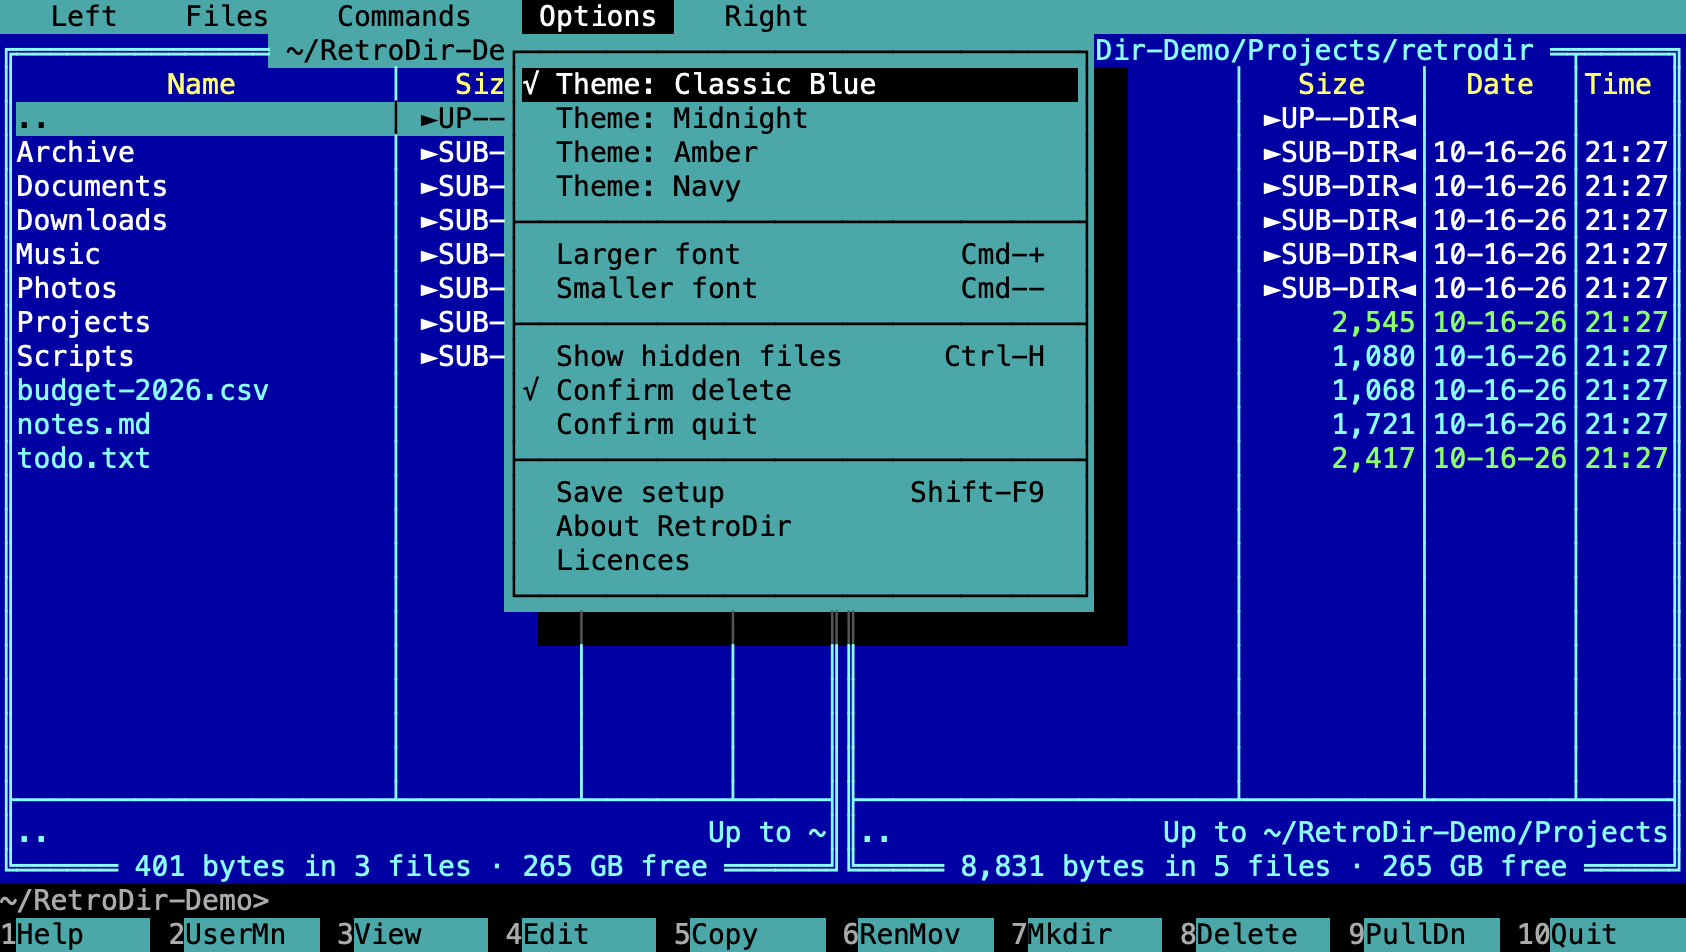
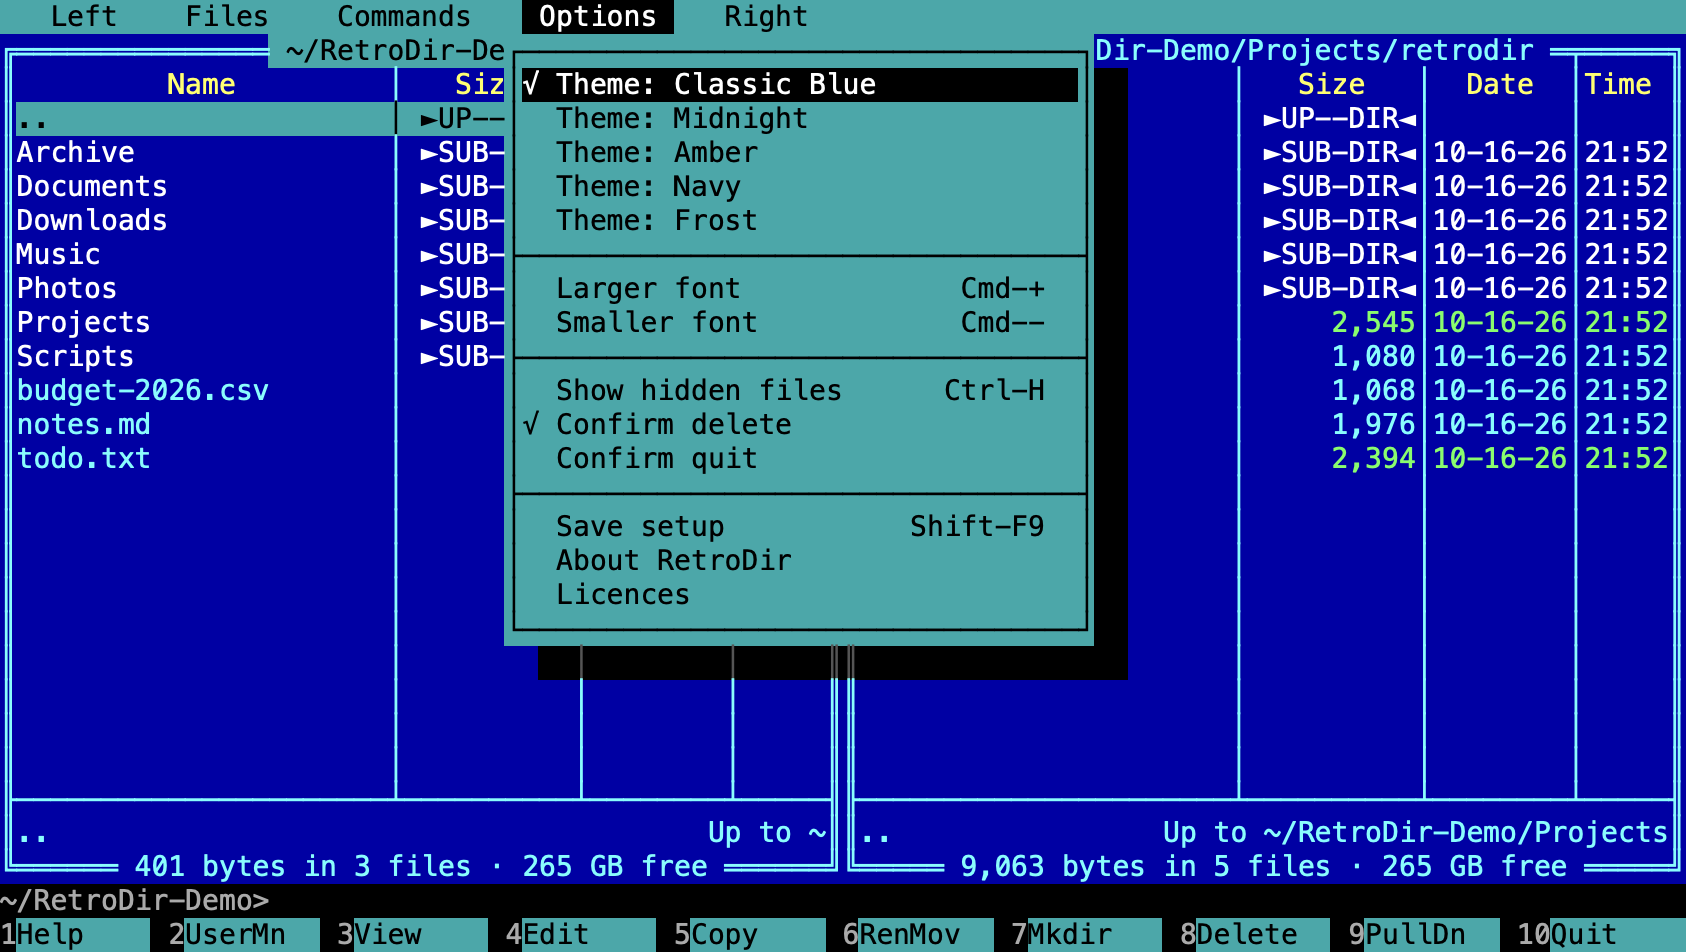
Website: Frost theme on the home page and in the manual; 1.1 release notes
Frost screenshots are composites: a snapshot with real transparency over a
generated abstract backdrop, since the desktop blur can't be captured from
inside the app.

diff --git a/docs/index.html b/docs/index.html
@@ -14,7 +14,7 @@
 <meta name="twitter:card" content="summary_large_image">
 <link rel="icon" type="image/png" href="img/favicon.png">
 <link rel="apple-touch-icon" href="img/icon.png">
-<link rel="stylesheet" href="style.css?v=ca78e375">
+<link rel="stylesheet" href="style.css?v=570233fb">
 </head>
 <body>
 
@@ -39,7 +39,7 @@
     <p class="tagline">A retro dual-panel file manager for macOS, with a built-in tabbed terminal.</p>
     <p class="sub">Free · Open source (MIT) · Keyboard-first · macOS 13 or later</p>
     <div class="buttons">
-      <a class="btn primary" href="https://github.com/ehsanhaque/retrodir/releases/latest/download/RetroDir.dmg">Download for macOS <span class="ver">v1.0.1</span></a>
+      <a class="btn primary" href="https://github.com/ehsanhaque/retrodir/releases/latest/download/RetroDir.dmg">Download for macOS <span class="ver">v1.1</span></a>
       <a class="btn" href="https://github.com/ehsanhaque/retrodir">View on GitHub</a>
     </div>
     <img class="shot" src="img/hero.png" width="1754" height="884"
@@ -108,8 +108,9 @@
 
 <section id="themes" data-nav="screenshots">
   <div class="wrap">
-    <h2>Four colour themes</h2>
-    <p class="lead">Classic Blue is the default. Switch any time from Options in the menu.</p>
+    <h2>Five colour themes</h2>
+    <p class="lead">Classic Blue is the default. Switch any time from Options in the menu. New in 1.1: <b>Frost</b>, a translucent theme that turns panels, menus and the terminal into tinted glass over your blurred desktop.</p>
+    <figure class="theme-feature"><img src="img/theme-4.png" width="1754" height="884" loading="lazy" alt="Frost theme: translucent panels over a colourful blurred background"><figcaption>Frost <span class="new">NEW</span> · translucent</figcaption></figure>
     <div class="themes">
       <figure><img src="img/hero.png" width="1754" height="884" loading="lazy" alt="Classic Blue theme"><figcaption>Classic Blue</figcaption></figure>
       <figure><img src="img/theme-1.png" width="1754" height="884" loading="lazy" alt="Midnight theme"><figcaption>Midnight</figcaption></figure>
@@ -147,7 +148,7 @@
     <div class="download">
       <div class="panel"><h3>Download</h3>
         <p>A signed and notarized universal app for Apple silicon and Intel Macs. Requires macOS 13 Ventura or later.</p>
-        <a class="btn primary" href="https://github.com/ehsanhaque/retrodir/releases/latest/download/RetroDir.dmg">Download RetroDir <span class="ver">v1.0.1</span></a>
+        <a class="btn primary" href="https://github.com/ehsanhaque/retrodir/releases/latest/download/RetroDir.dmg">Download RetroDir <span class="ver">v1.1</span></a>
         <p class="note">Open the DMG and drag RetroDir to Applications. See <a href="releases.html">what’s new</a>, or older versions on <a href="https://github.com/ehsanhaque/retrodir/releases">GitHub Releases</a>.</p>
       </div>
       <div class="panel"><h3>Build from source</h3>
@@ -219,7 +220,7 @@ open build/RetroDir.app</pre>
 
   // Click a screenshot to enlarge it
   const box = document.getElementById('lightbox'), big = box.querySelector('img');
-  document.querySelectorAll('.gallery img, .themes img, .hero .shot').forEach(img => {
+  document.querySelectorAll('.gallery img, .themes img, .theme-feature img, .hero .shot').forEach(img => {
     img.addEventListener('click', () => { big.src = img.src; big.alt = img.alt; box.showModal(); });
   });
   box.addEventListener('click', () => box.close());

diff --git a/docs/manual.html b/docs/manual.html
@@ -12,7 +12,7 @@
 <link rel="canonical" href="https://retrodir.app/manual.html">
 <link rel="icon" type="image/png" href="img/favicon.png">
 <link rel="apple-touch-icon" href="img/icon.png">
-<link rel="stylesheet" href="style.css?v=ca78e375">
+<link rel="stylesheet" href="style.css?v=570233fb">
 </head>
 <body>
 
@@ -58,7 +58,7 @@
 
   <main class="doc">
     <h1>RetroDir manual</h1>
-    <p class="lead">Everything RetroDir can do, one feature at a time. Press <kbd>F1</kbd> inside the app any time for the built-in keyboard reference. This manual covers version <span class="ver">v1.0.1</span>.</p>
+    <p class="lead">Everything RetroDir can do, one feature at a time. Press <kbd>F1</kbd> inside the app any time for the built-in keyboard reference. This manual covers version <span class="ver">v1.1</span>.</p>
 
     <!-- 1 -->
     <section id="start">
@@ -361,7 +361,14 @@
     <section id="settings">
       <h2>15. Themes &amp; settings</h2>
       <p>The <b>Options</b> menu holds the colour theme, font size (<kbd>Cmd-+</kbd> / <kbd>Cmd--</kbd>), hidden files, and the delete and quit confirmations. RetroDir remembers your panels, sort order, histories, hotlist, theme and terminal size; <b>Save setup</b> (<kbd>Shift-F9</kbd>) saves them right away.</p>
-      <figure><img src="img/manual/menu-options.png" width="1686" height="952" loading="lazy" alt="The Options menu with themes and settings"></figure>
+      <figure><img src="img/manual/menu-options.png" width="1686" height="952" loading="lazy" alt="The Options menu with five themes and settings"></figure>
+      <h3>Frost (translucent)</h3>
+      <p><b>Frost</b> (new in 1.1) makes the window translucent: panels, menus, dialogs, the console and the built-in terminal become tinted glass, and whatever is behind the window shows through, blurred. Text stays fully opaque, so it's as readable as the other themes. It looks best over a colourful desktop or with other windows behind RetroDir.</p>
+      <div class="pair">
+        <figure><img src="img/manual/frost-menu.png" width="1686" height="952" loading="lazy" alt="Frost theme with the Options menu open"><figcaption>Frost with a menu open</figcaption></figure>
+        <figure><img src="img/manual/frost-terminal.png" width="1686" height="1156" loading="lazy" alt="Frost theme with the built-in terminal open"><figcaption>The terminal shares the same glass</figcaption></figure>
+      </div>
+      <h3>Classic themes</h3>
       <div class="themes">
         <figure><img src="img/hero.png" width="1754" height="884" loading="lazy" alt="Classic Blue theme"><figcaption>Classic Blue</figcaption></figure>
         <figure><img src="img/theme-1.png" width="1754" height="884" loading="lazy" alt="Midnight theme"><figcaption>Midnight</figcaption></figure>

diff --git a/docs/releases.html b/docs/releases.html
@@ -12,7 +12,7 @@
 <link rel="canonical" href="https://retrodir.app/releases.html">
 <link rel="icon" type="image/png" href="img/favicon.png">
 <link rel="apple-touch-icon" href="img/icon.png">
-<link rel="stylesheet" href="style.css?v=ca78e375">
+<link rel="stylesheet" href="style.css?v=570233fb">
 </head>
 <body>
 
@@ -36,11 +36,20 @@
     <h1>Release notes</h1>
     <p class="lead">What's new in each version of RetroDir. Every release is a signed, notarized universal app for Apple silicon and Intel Macs running macOS 13 or later.</p>
     <div class="buttons" style="justify-content: flex-start">
-      <a class="btn primary" href="https://github.com/ehsanhaque/retrodir/releases/latest/download/RetroDir.dmg">Download the latest version <span class="ver">v1.0.1</span></a>
+      <a class="btn primary" href="https://github.com/ehsanhaque/retrodir/releases/latest/download/RetroDir.dmg">Download the latest version <span class="ver">v1.1</span></a>
     </div>
 
+    <article class="release" id="v1.1">
+      <h2>RetroDir 1.1 <span class="tag">LATEST</span> <span class="date">October 2026</span></h2>
+      <h3>New</h3>
+      <ul>
+        <li><b>Frost theme.</b> A translucent theme: panels, menus, dialogs, the console and the built-in terminal become tinted glass over your blurred desktop, while text stays fully opaque. Choose it from <b>Options → Theme: Frost</b>. See <a href="manual.html#settings">Themes &amp; settings</a> in the manual.</li>
+      </ul>
+      <p class="links"><a href="https://github.com/ehsanhaque/retrodir/releases/tag/v1.1">Download 1.1 on GitHub</a></p>
+    </article>
+
     <article class="release" id="v1.0.1">
-      <h2>RetroDir 1.0.1 <span class="tag">LATEST</span> <span class="date">October 2026</span></h2>
+      <h2>RetroDir 1.0.1 <span class="date">October 2026</span></h2>
       <h3>Fixed</h3>
       <ul>
         <li><kbd>Cmd-T</kbd> from a panel now opens the terminal in that panel's current folder. Before, it always brought back the first terminal tab in whatever folder it started in. If a tab is already in that folder, RetroDir switches to it; otherwise it opens a new tab there. Shells that are busy (an ssh session, an editor) are never changed.</li>

diff --git a/docs/style.css b/docs/style.css
@@ -211,3 +211,9 @@ dialog img { max-width: 94vw; max-height: 90vh; width: auto; cursor: zoom-out; }
 .toc li:has(a[aria-current])::marker { color: var(--cyan); }
 
 .menubar a[aria-current] { background: var(--black); color: var(--white); }
+
+/* Featured theme (Frost) above the theme grid */
+.theme-feature { margin: 0 0 22px; }
+.theme-feature img { border: 3px double var(--cyan); cursor: zoom-in; width: 100%; }
+.theme-feature figcaption { font: 15px/1.4 var(--mono); color: var(--cyan); margin-top: 8px; }
+.new { font: 700 11px/1 var(--mono); background: var(--yellow); color: var(--black); padding: 3px 5px; vertical-align: 2px; }
